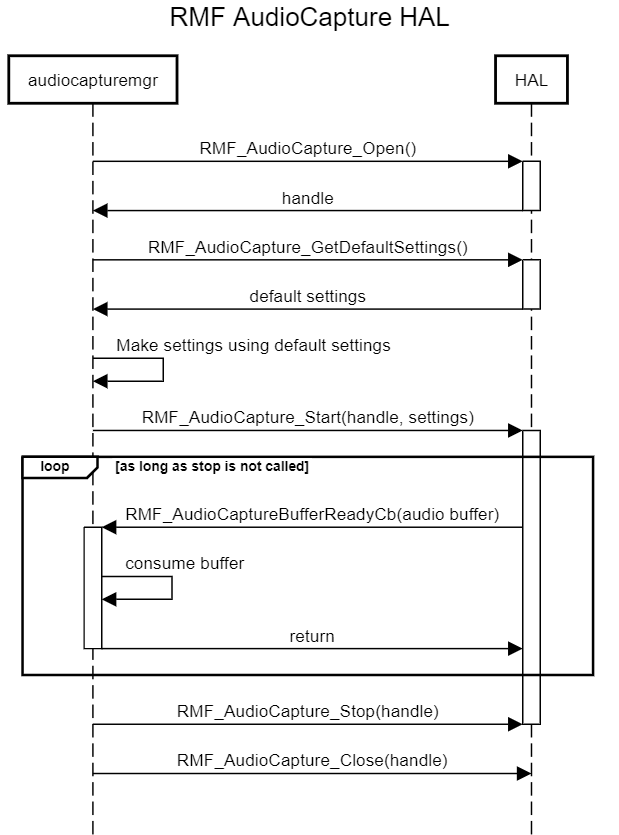
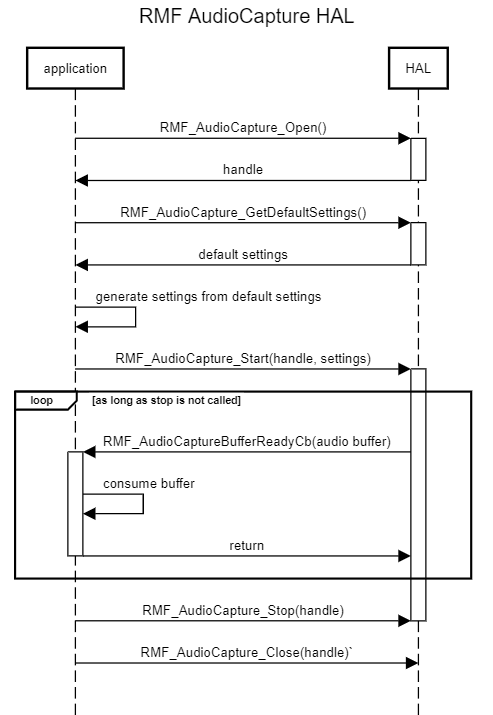
RDK-36869 : Documentation for RMF_AudioCapture HAL v2

diff --git a/docs/pages/halSpec.md b/docs/pages/halSpec.md
@@ -8,52 +8,50 @@
 1.0.0 Initial Revision covers existing RMF_AudioCapture HAL implementation.
 
 # Description
-RMF AudioCapture is the RDK-V interface designed to tap into the audio output of an STB/TV. When in use, the underlying
+RMF AudioCapture is an interface designed to tap into the audio output of an STB/TV. When in use, the underlying
 SoC implementation will deliver a constant stream of raw audio data (PCM). This audio will have the active audio track
 of whatever content is being played, and may include other sounds mixed in, such as voice-guidance, application-driven
-audio overlays (eg: beeps) etc. RDK will attempt to configure audio format parameters (channels, bit rate etc.) to its liking
+audio overlays (eg: beeps) etc. Application will attempt to configure audio format parameters (channels, bit rate etc.) to its liking
 but not all combinations are expected to be supported by the HAL.
 
-![RMF_AudioCapture Architecture Diagram](RMF_AudioCapture_HAL_architecture.png)
+![RMF_AudioCapture Architecture Diagram](images/RMF_AudioCapture_HAL_architecture.png)
 
-The actual application that uses RMF_AudioCapture HAL is called Audio Capture Manager (ACM) (process name: audiocapturemgr).
-ACM leverages audio capture capabilities to support multiple use cases:
+Application may choose to use the audio capture capabilities to support use cases such as
 1. Music identification
-2. Bluetooth audio output (in conjunction with RDK-V's Bluetooth manager component)
-3. It is possible to create other applications using ACM's public APIs that can take advantage of real-time audio streams.
+2. Bluetooth audio output
  
 # Component Runtime Execution Requirements
-Audio Capture Manager has runtime dependencies on IARMBus and will not launch until this bus is up. If RMF_AudioCapture HAL as any
-run-time requirements, they need to be added as dependencies of Audio Capture Manager as well. For eg., if RMF_AudioCapture HAL requires
-any background service to be running or any files/pipes to be created to work, the necessary interlocks must be added to Audio Capture Manager.
-Most such requirements can be met by tweaking the systemd service file used by audiocapturemgr service.
+If RMF_AudioCapture HAL as any
+run-time requirements, they need to be stated clearly and added as dependencies of the application as well. For eg., if RMF_AudioCapture HAL requires
+any background service to be running or any files/pipes to be created to work, the necessary interlocks must be added to application's launch scripts.
+Most such requirements can be met by tweaking the systemd service file used by the application.
 
 ## Theory of operation
 
-RMF_AudioCapture HAL API is initialized by Audio Capture Manager application. ACM has complete control over the lifecycle of RMF_AudioCapture HAL.
-Following is a typical sequence of operation by ACM:
+Application has complete control over the lifecycle of RMF_AudioCapture HAL.
+Following is a typical sequence of operation:
 1. Open RMF_AudioCapture interface using RMF_AudioCapture_Open(). This is the cue for HAL to acquire the necessary resources.
-2. Get default settings using RMF_AudioCapture_GetDefaultSettings(). This returns a struct of parameters favourable to the HAL. ACM will tweak certain members of this struct and pass it with the start() call.
-2. Start audio capture using RMF_AudioCapture_Start. RMF_AudioCapture HAL will continuously deliver audio data to ACM in real time via callback RMF_AudioCaptureBufferReadyCb.
-3. When ACM no longer needs the audio stream, stop audio capture using RMF_AudioCapture_Stop(). This will stop the above callbacks.
+2. Get default settings using RMF_AudioCapture_GetDefaultSettings(). This returns a struct of parameters favourable to the HAL. Application may tweak certain members of this struct and pass it with the start() call.
+2. Start audio capture using RMF_AudioCapture_Start. RMF_AudioCapture HAL will continuously deliver audio data to application in real time via callback RMF_AudioCaptureBufferReadyCb.
+3. When the audio stream is no longer needed, stop audio capture using RMF_AudioCapture_Stop(). This will stop the above callbacks.
 4. Close RMF_AudioCapture interface using RMF_AudioCapture_Close(), releasing all resources.
 
 Calling RMF_AudioCapture_Open() is a necessary precondition for the remaining APIs to work. 
 #### Sequence Diagram
 
-![RMF_AudioCapture HAL sequence diagram](RMF_AudioCapture_HAL_sequence.png)
+![RMF_AudioCapture HAL sequence diagram](images/RMF_AudioCapture_HAL_sequence.png)
 
 #### State Diagram
 
-![RMF_AudioCapture HAL state diagram](RMF_AudioCapture_HAL_state_machine.png)
+![RMF_AudioCapture HAL state diagram](images/RMF_AudioCapture_HAL_state_machine.png)
 ## Threading Model
 
-Audio Capture Manager is a multi-threaded application and RMF_AudioCapture HAL is expected to be thread-safe when invoked from various ACM threads. Data callback RMF_AudioCaptureBufferReadyCb must originate in a thread that's separate from ACM context(s). ACM does not make any HAL calls in the context of
+RMF_AudioCapture HAL is expected to be thread-safe when invoked from various application threads. Data callback RMF_AudioCaptureBufferReadyCb must originate in a thread that's separate from application context(s). Application does not make any HAL calls in the context of
 RMF_AudioCaptureBufferReadyCb. However, there is a possibility that RMF_AudioCapture_StatusChangeCb will trigger HAL API calls within that context.
 
 ## Process Model
 
-Audio Capture Manager application takes care of RMF_AudioCapture HAL initialization. At any point of time, only a single instance of audiocapturemgr application is expected to run. The HAL implementation should not manipulate any process-wide state, such as the current directory, locale, etc. Doing so could have unintended consequences for other threads within the process group.
+Application will take care of RMF_AudioCapture HAL initialization. At any point of time, only a single instance of application using this HAL is expected to run. The HAL implementation should not manipulate any process-wide state, such as the current directory, locale, etc. Doing so could have unintended consequences for other threads within the process group.
 
 ## Memory Model
 
@@ -62,31 +60,30 @@ by HAL after the callback returns.
 
 ## Power Management Requirements
 
-RMF_AudioCapture HAL does not affect any power management functions. In controlled power transitions, ACM may choose to stop and/or close the audio capture
-interface when device transitions from ON to standby power states. However, this choice is dictated by ACM's consumer and should not be relied upon. Should the
-device transition back to ON state, RMF_AudioCapture HAL is expected to resume normal operation, i. e., if it was actively captureing audio when power state changed to standby, it must resume doing so.
+RMF_AudioCapture HAL does not affect any power management functions. In controlled power transitions, application may choose to stop and/or close the audio capture
+interface when device transitions from ON to standby power states. However, this choice is dictated by application's internal logic and should not be relied upon. Should the
+device transition back to ON state, RMF_AudioCapture HAL is expected to resume normal operation, i. e., if it was actively capturing audio when power state changed to standby, it must resume doing so.
 
 ## Asynchronous Notification Model
 No asynchronous notifications are supported.
 
 ## Blocking calls
 
-The following callbacks may block depending on Audio Capture Manager's internal operations.
+The following callbacks may block depending on application's internal operations.
   1. RMF_AudioCaptureBufferReadyCb
   2. RMF_AudioCapture_StatusChangeCb
-ACM takes pains to return as soon as possible from RMF_AudioCaptureBufferReadyCb callback, as any delays inside this function has the potential to
+The application will take pains to return as soon as possible from RMF_AudioCaptureBufferReadyCb callback, as any delays inside this function has the potential to
 impact audio experience. RMF_AudioCapture_StatusChangeCb has no such guarantees.
 
 ## Internal Error Handling
 All HAL API's should return error synchronously as a return argument where possible. HAL is responsible for managing its internal errors.
 
 ## Persistence Model
-There is no requirement for HAL to persist any setting information. It is application's responsibility to configure the audio capture interface to its
-liking every time.
+There is no requirement for HAL to persist any settings information. The necessary parameters will be passed with RMF_AudioCapture_Start() for every audio capture session.
 
 
 # Nonfunctional requirements
-Following non functional requirement should be supported by the RMF_AudioCapture HAL component:
+None.
 
 ## Logging and debugging requirements
 
@@ -113,11 +110,10 @@ HAL source code should be built in Linux Yocto environment and should be deliver
 
 ## Variability Management
 
-Any new API introduced should be implemented by all the 3rd party modules and RDK generic code should be compatible with specific version of RMF_AudioCapture HAL. Currently there is little to no variability in RDK_AudioCapture HAL capabilties across implementations. If an attempt is made to configure the HAL in unsupported ways (via settings argument RMF_AudioCapture_Start() API), the function must return error code for invalid parameter.
+Any new API introduced should be implemented by all the 3rd party modules. Currently there is little to no variability in RDK_AudioCapture HAL capabilties across implementations. If an attempt is made to configure the HAL in unsupported ways (via settings argument RMF_AudioCapture_Start() API), the function must return error code for invalid parameter.
 
 ## Platform or Product Customization
-The default settings returned via RMF_AudioCapture_GetDefaultSettings() can be configured with parameters that are favourable to HAL. RDK will typically not
-change any of these parameters unless strictly necessary.
+The default settings returned via RMF_AudioCapture_GetDefaultSettings() can be configured with parameters that are favourable to HAL. RDK will typically not change any of these parameters unless strictly necessary.
 
 # Interface API Documentation
 
